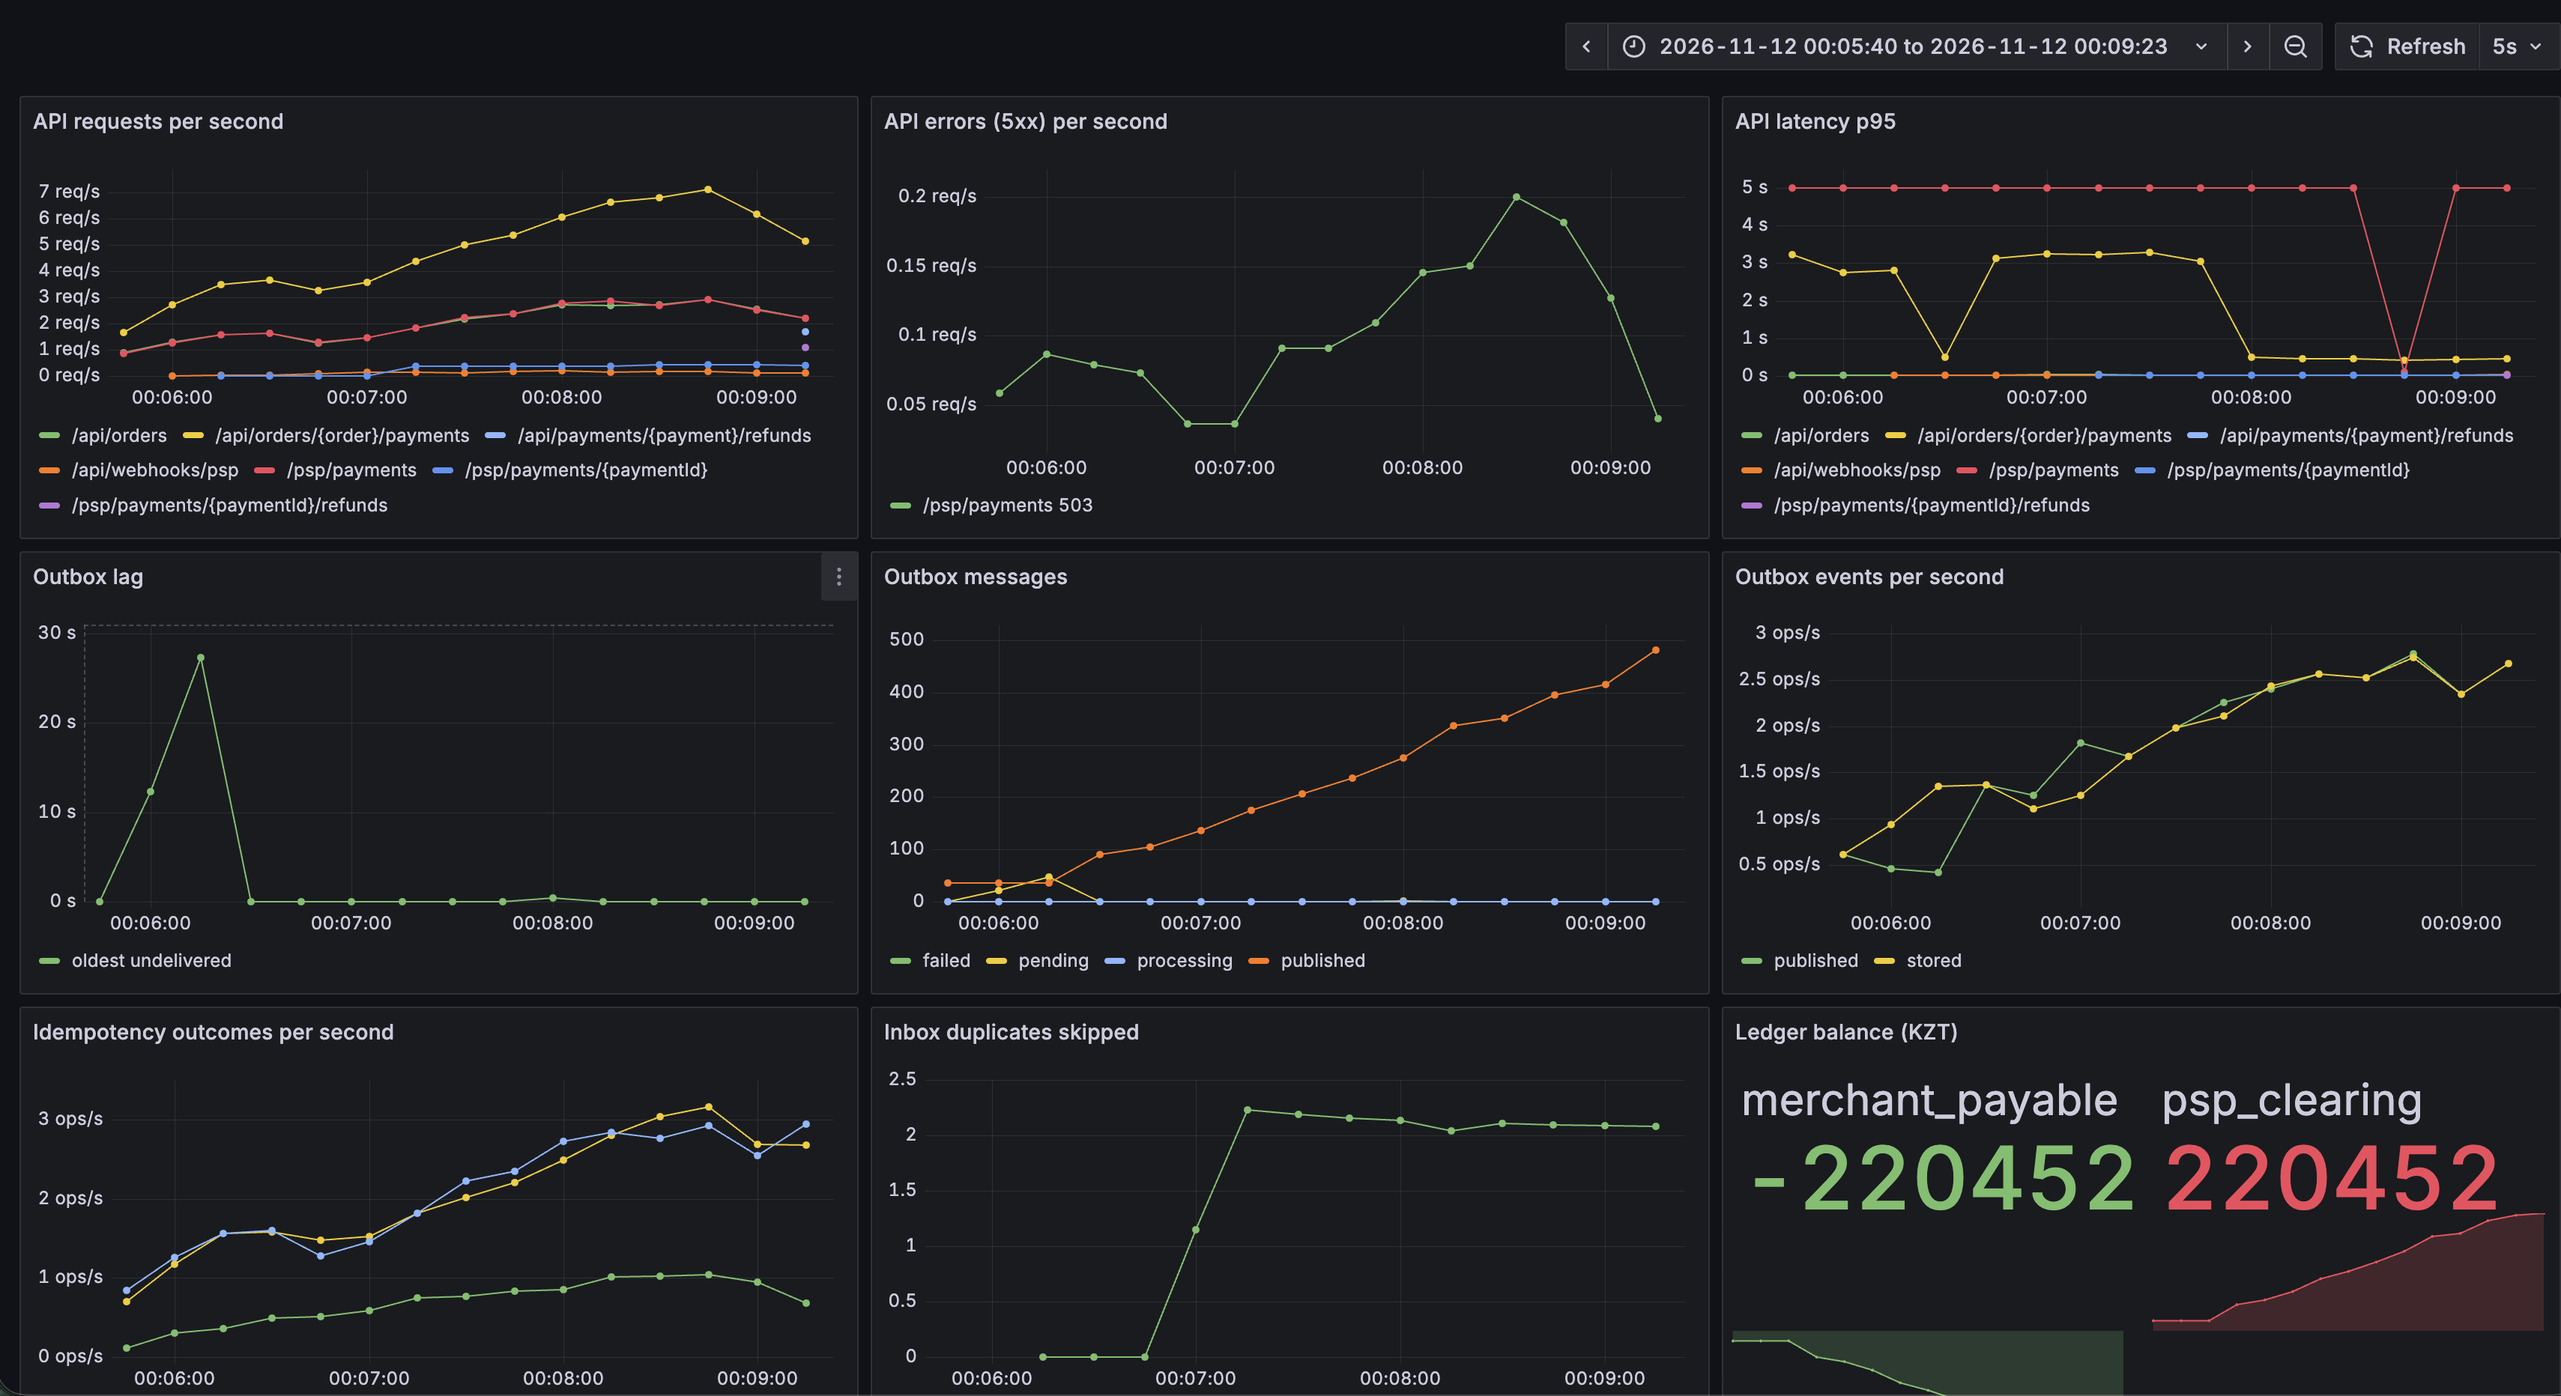
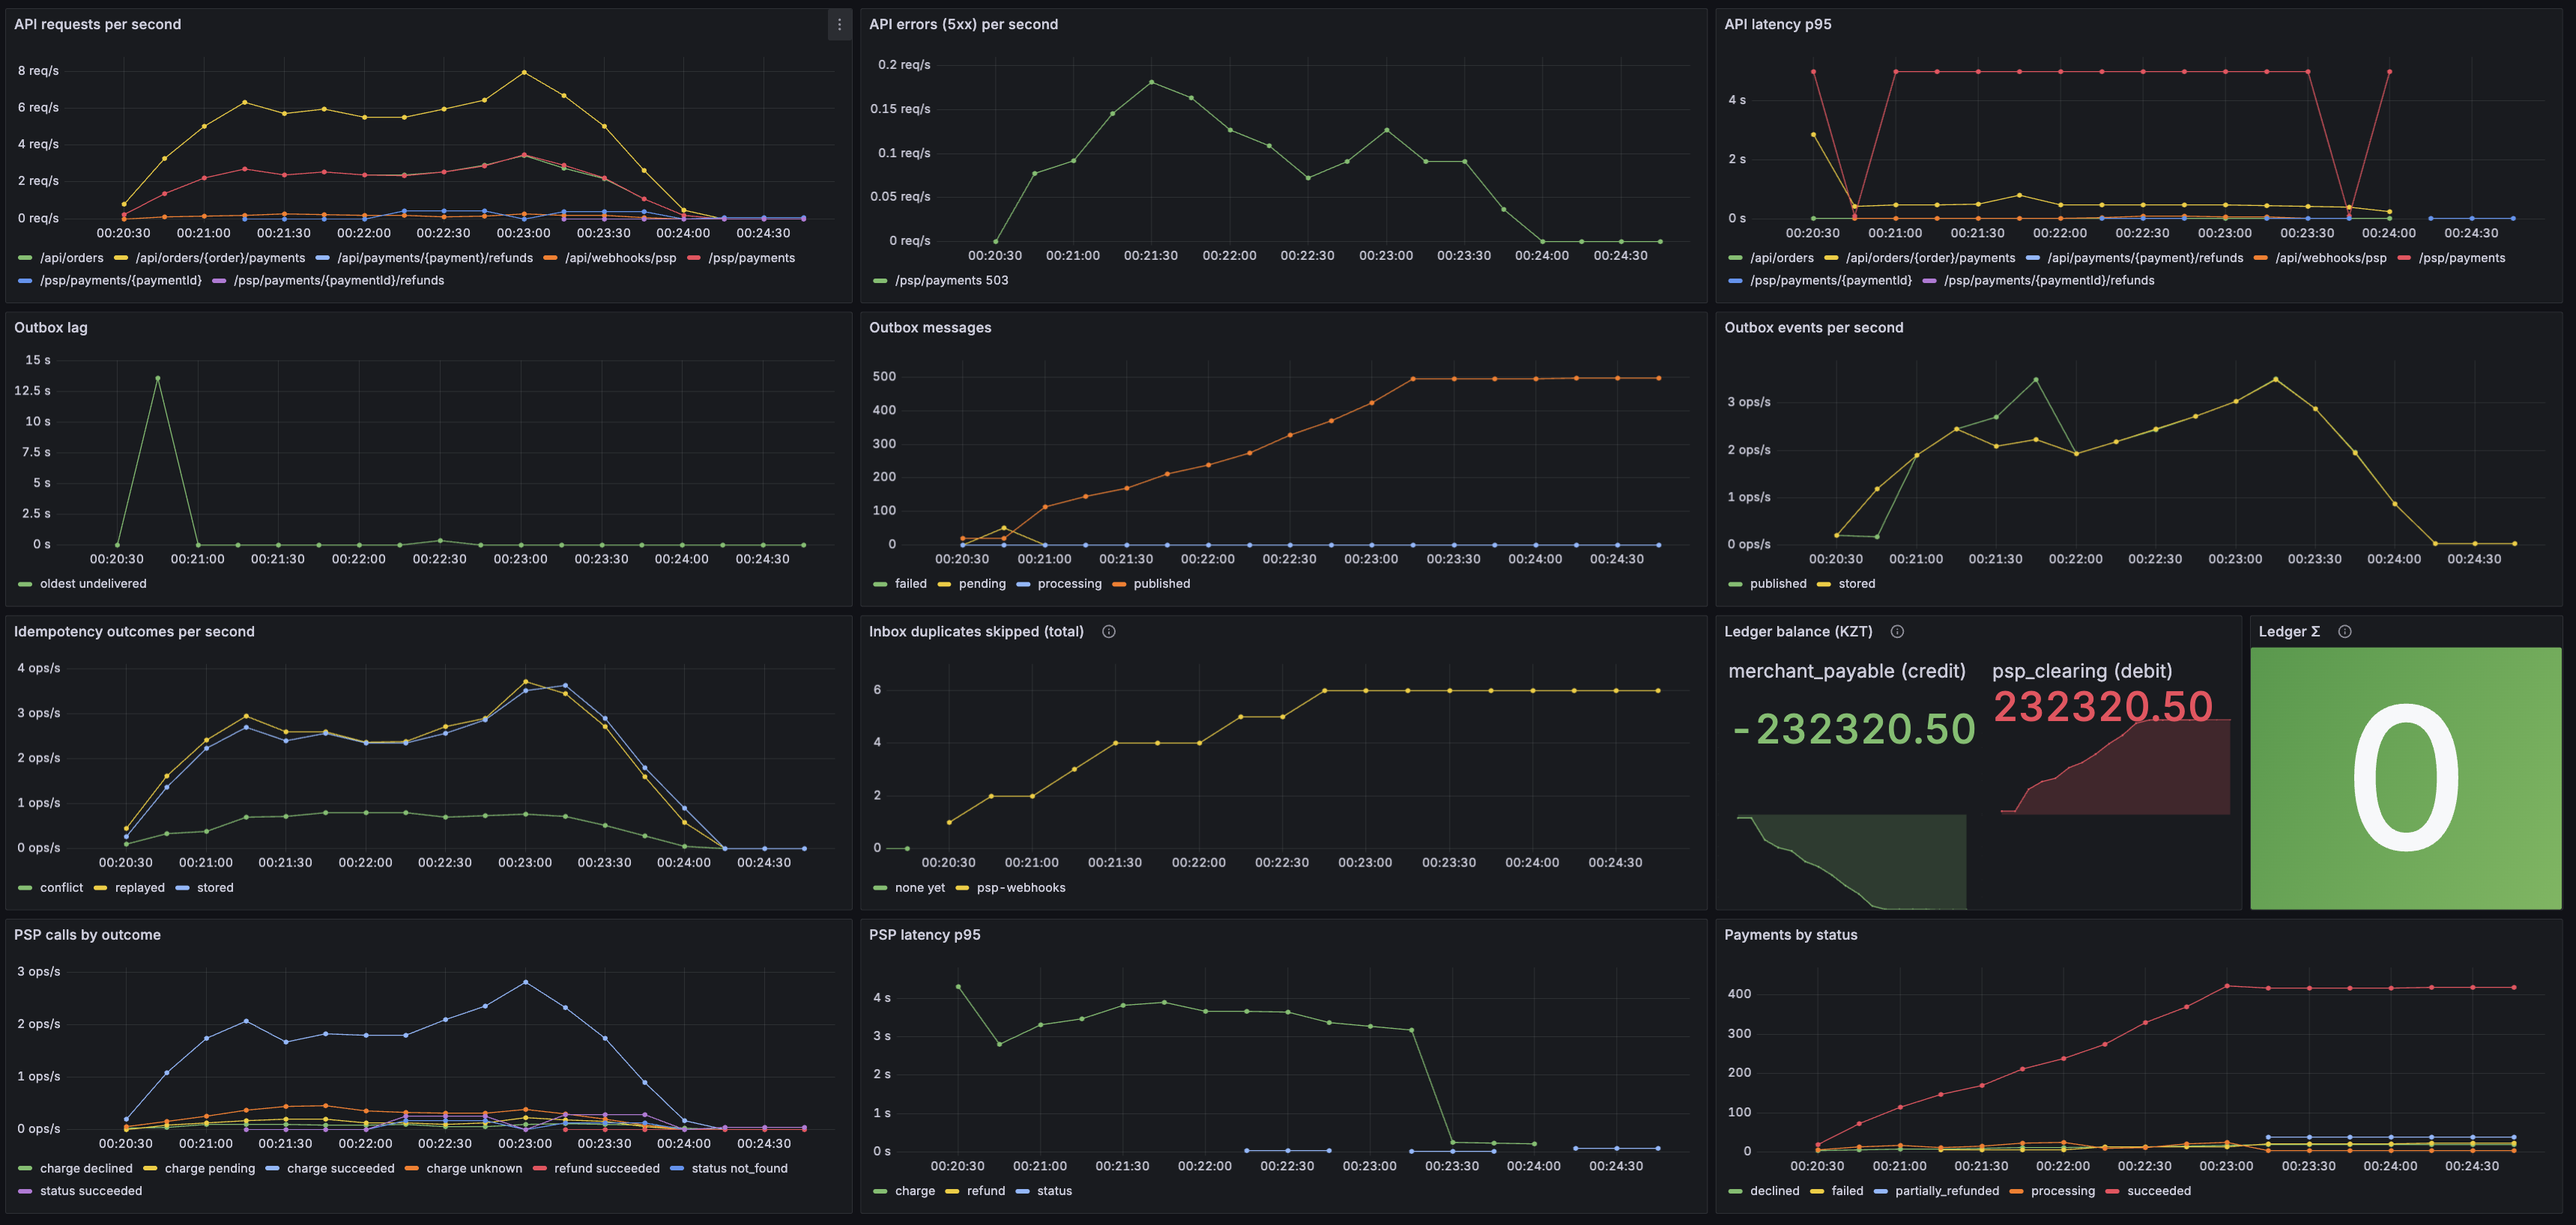
docs: add the Grafana screenshot of the chaos run and a v0.2 roadmap

diff --git a/README.md b/README.md
@@ -176,14 +176,9 @@ Possible, but absent from this run:
 
 458 orders paid, 42 declined or failed (declines plus 503s the PSP never charged), and **0 double charges, 0 lost events**. The report is written to `storage/chaos/report.json`.
 
-![Grafana dashboard "Payments" during a 500-order make chaos run](docs/grafana.png)
+![Grafana dashboard "Payments" during the make chaos run above](docs/grafana.png)
 
-The Grafana dashboard "Payments" during an earlier 500-order run:
-- **Outbox lag.** The hump is the relay kill. Both relay workers are killed and RabbitMQ restarts, so the oldest undelivered event ages to about 27 s. Once the relay is back it drains the backlog, and the lag returns to 0 within seconds and stays there.
-- **Outbox messages.** Nothing ends up `failed`.
-- **API errors (5xx).** Only the 503s injected at the fake PSP show up here.
-- **Inbox duplicates skipped.** Redeliveries the ledger ignored.
-- **Ledger balance.** `merchant_payable` and `psp_clearing` mirror each other.
+*Chaos run: 500 orders, 1 159 payment requests with retries, 10% PSP timeouts + 5% 503, relay killed and RabbitMQ restarted. Outbox lag spikes to ~13 s while the relay is down and drops back to 0; ~500 events published, none failed. The 5 s p95 on /psp/payments is the fake PSP's injected timeouts. Ledger Σ stays at 0 and the inbox skipped 6 duplicate PSP webhooks.*
 
 ## Why it's built this way
 
@@ -222,6 +217,10 @@ The suite covers the following:
 - `demo:verify` against each kind of violation.
 
 CI also runs the 50-order chaos run.
+
+## Roadmap
+
+- **v0.2: operator back office on Filament.** A panel for support and finance to browse orders, payments, refunds and ledger transactions.
 
 ## Built with
 
